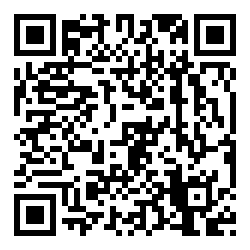
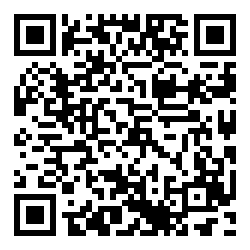
Change bitcoin address

diff --git a/elements/site-suffix.html b/elements/site-suffix.html
@@ -23,8 +23,8 @@
       <p>
         Really liked this post?
         <span>
-          <a href="bitcoin:19run9LfWs4wP2drgWpriMXvCg1Zce1EKp">
-            19run9LfWs4wP2drgWpriMXvCg1Zce1EKp</a>
+          <a href="bitcoin:1LaLeoyzwDig3WDTWJvEivdw3VU3yZ2Zpo">
+            1LaLeoyzwDig3WDTWJvEivdw3VU3yZ2Zpo</a>
           <md-tooltip md-direction="bottom">
             QR code:
             <embedded-image url="/bitcoin.png"></embedded-image>
